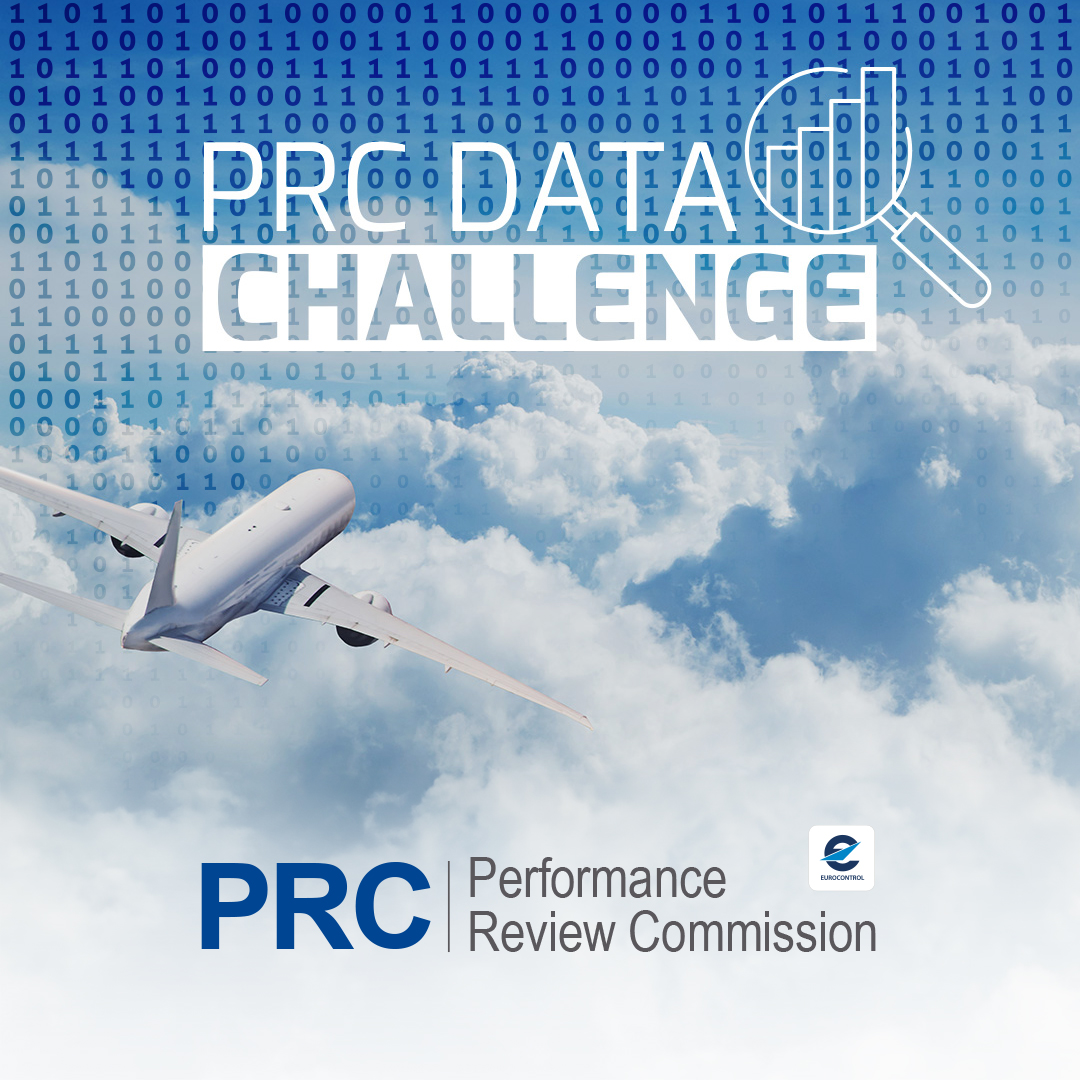
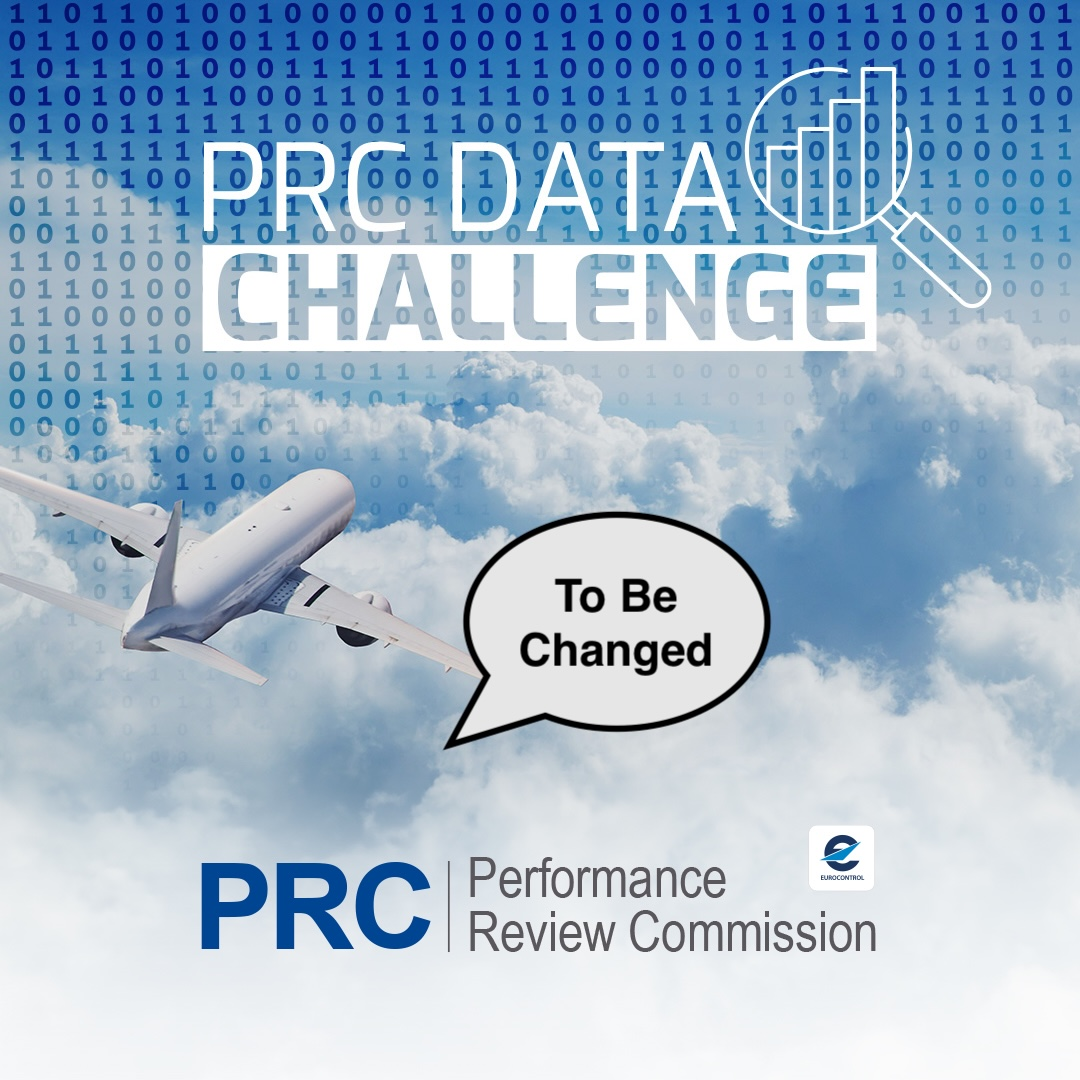
align column list and descriptions

Changed region(s): [[0.3972, 0.4583, 0.7333, 0.7028]]

diff --git a/_site/data.html b/_site/data.html
@@ -462,7 +462,8 @@ ul.task-list li input[type="checkbox"] {
     <h2 id="toc-title">On this page</h2>
    
   <ul class="collapse">
-  <li><a href="#acronyms_HEADER_LOA" id="toc-acronyms_HEADER_LOA" class="nav-link active" data-scroll-target="#acronyms_HEADER_LOA">List of Acronyms</a></li>
+  <li><a href="#column-description" id="toc-column-description" class="nav-link active" data-scroll-target="#column-description">Column description</a></li>
+  <li><a href="#acronyms_HEADER_LOA" id="toc-acronyms_HEADER_LOA" class="nav-link" data-scroll-target="#acronyms_HEADER_LOA">List of Acronyms</a></li>
   </ul>
 </nav>
     </div>
@@ -490,20 +491,110 @@ ul.task-list li input[type="checkbox"] {
 
 <p>We provide the following (logical) data sets:</p>
 <ol type="1">
-<li><strong>flight movements</strong> information at 11 major European airports including
+<li><strong>movements</strong> (arrival and departure) information at 11 major European airports including
 <ol type="a">
 <li><strong>taxi-out time</strong> for each movement in the airport</li>
-<li><strong>scheduled</strong> and <strong>actual</strong> times</li>
+<li><strong>scheduled</strong> and <strong>actual</strong> times This is related to departing (<code>PHASE</code> = <code>DEP</code>) or arriving (<code>PHASE</code> = <code>ARR</code>) airport.</li>
 </ol></li>
-<li><strong>airport coordinates</strong> for all <a href="#acronyms_ADEP">Aerodromes of DEParture (ADEPs)</a> and <a href="#acronyms_ADES">Aerodromes of DEStination (ADESs)</a></li>
+<li><strong>flight</strong> information for each movement.<br>
+This is what is matched in the <a href="#acronyms_NM">Network Manager (NM)</a> records.</li>
 </ol>
+<p>The movement rows have been (left) joined with the flight ones.</p>
+<p><strong>NOTE</strong>: real world data is messy. You will find some inconsistencies between movement and flight information. We haven’t tried to reconcile them because they are probably due to some limitations of the underlying processes trying to match different sources of data.<br>
+As per all out data challenges, we do not <em>play</em> with synthetic/artificial datasets.</p>
+<section id="column-description" class="level2">
+<h2 class="anchored" data-anchor-id="column-description">Column description</h2>
+<p>Columns postfixed with <code>_mvt</code> are associated with the reporting airport.<br>
+Columns postfixed with <code>_flt</code> are associated with information from <a href="#acronyms_NM">NM</a> flight list.</p>
+<section id="movement" class="level3">
+<h3 class="anchored" data-anchor-id="movement">Movement</h3>
+<ul>
+<li><code>MVT_ID_mvt</code>: unique identifier for the movement record</li>
+<li><code>FLIGHT_ID_mvt</code>: unique identifier for the <a href="#acronyms_NM">NM</a> flight (if matched)</li>
+<li><code>FLIGHT_mvt</code>: flight number, i.e.&nbsp;what you see on your boarding pass</li>
+<li><code>FLIGHT_RULE_mvt</code>: which sets of regulations the flight is operated under. Possible values are:
+<ul>
+<li><code>I</code> for <a href="#acronyms_IFR">Instrument Flight Rules (IFR)</a></li>
+<li><code>V</code> for <a href="#acronyms_VFR">Visual Flight Rules (VFR)</a></li>
+<li>NA if unknown</li>
+</ul></li>
+<li><code>ADEP_mvt</code>: the (ICAO code of the) <a href="#acronyms_ADEP">Aerodrome of DEParture (ADEP)</a>.</li>
+<li><code>ADES_mvt</code>: the (ICAO code of the) <a href="#acronyms_ADES">Aerodrome of DEStination (ADES)</a>.</li>
+<li><code>PHASE_mvt</code>: movement phase. <code>DEP</code>=departure, <code>ARR</code>=arrival.</li>
+<li><code>MVT_TIME_UTC_mvt</code>: (best available) movement time (takeoff if <code>PHASE</code> = <code>DEP</code>, landing if <code>PHASE</code> = <code>ARR</code>.)</li>
+<li><code>BLOCK_TIME_UTC_mvt</code>: Block time (off-block if <code>PHASE</code> = <code>DEP</code>, in-block if <code>PHASE</code> = <code>ARR</code>.)</li>
+<li><code>SCHED_TIME_UTC_mvt</code>: scheduled time (of departure if <code>PHASE</code> = <code>DEP</code>, of arrival if <code>PHASE</code> = <code>ARR</code>.)</li>
+<li><code>AIRCRAFT_TYPE_mvt</code>: the ICAO code for the aircraft type, for example <code>A21N</code> for Airbus A321neo.</li>
+<li><code>RUNWAY_mvt</code>: the RWY ID (of departure if <code>PHASE</code> = <code>DEP</code>, of arrival if <code>PHASE</code> = <code>ARR</code>.)</li>
+<li><code>STAND_mvt</code>: the stand ID (of departure if <code>PHASE</code> = <code>DEP</code>, of arrival if <code>PHASE</code> = <code>ARR</code>.)</li>
+<li><code>TAXITIME_SEC_mvt</code>: amount of seconds for taxi time (taxi-out if <code>PHASE</code> = <code>DEP</code>, taxi-in if <code>PHASE</code> = <code>ARR</code>.)</li>
+</ul>
+</section>
+<section id="flight" class="level3">
+<h3 class="anchored" data-anchor-id="flight">Flight</h3>
+<p>The following columns come from data recorded by <a href="#acronyms_NM">NM</a>.</p>
+<ul>
+<li><code>LOBT_flt</code>: last know off-block time</li>
+<li><code>CALLSIGN_flt</code>: the <a href="https://skybrary.aero/articles/aircraft-call-sign">callsign</a> of the relevant flight, e.g.&nbsp;<code>BAW6VB</code>.</li>
+<li><code>ADEP_flt</code>: the ICAO code of the <a href="#acronyms_ADEP">ADEP</a>.</li>
+<li><code>ADES_flt</code>: the ICAO code of the <a href="#acronyms_ADES">ADES</a>.</li>
+<li><code>ADES_FILED_flt</code>: the <a href="#acronyms_ADES">ADES</a> initially filed in the FPL. if different from <code>ADES_flt</code> then the flight has beed diverted.</li>
+<li><code>MARKET_SEGMENT_flt</code>: the market segment type as defined in the <a href="https://www.eurocontrol.int/publication/market-segment-rules">Market Segment Rules</a>, it can be:
+<ul>
+<li>“Mainline”</li>
+<li>“Regional”</li>
+<li>“Low-Cost”</li>
+<li>“Business Aviation”</li>
+<li>“All-Cargo”</li>
+<li>“Charter” (Non-Scheduled)</li>
+<li>“Military”</li>
+<li>“Other”</li>
+<li>“Not classified”</li>
+</ul></li>
+<li><code>IOBT_flt</code>: <a href="#acronyms_IOBT">Initial Off-Block Time (IOBT)</a>.</li>
+<li><code>FLIGHT_RULE_flt</code>: which sets of regulations the flight is operated under (see <a href="https://www.skybrary.aero/articles/flight-plan-completion">FPL Item 8</a>). Possible values are:
+<ul>
+<li><code>I</code> for <a href="#acronyms_IFR">IFR</a></li>
+<li><code>V</code> for <a href="#acronyms_VFR">VFR</a></li>
+<li><code>Y</code> first <a href="#acronyms_IFR">IFR</a> thereafter <a href="#acronyms_VFR">VFR</a></li>
+<li><code>Z</code> first <a href="#acronyms_VFR">VFR</a> thereafter <a href="#acronyms_IFR">IFR</a></li>
+</ul></li>
+<li><code>FLIGHT_TYPE_flt</code>: flight type (see <a href="https://www.skybrary.aero/articles/flight-plan-completion">FPL Item 8</a>). Possible values:
+<ul>
+<li><code>S</code> for scheduled air service</li>
+<li><code>N</code>for non-scheduled air service</li>
+<li><code>G</code> for general aviation</li>
+<li><code>M</code> for military (note: filtered out)</li>
+<li><code>X</code> for other than the preceding categories</li>
+</ul></li>
+<li><code>AIRCRAFT_TYPE_flt</code>: the <a href="https://www.icao.int/publications/doc8643/pages/search.aspx">ICAO code for the aircraft type</a>, for example <code>A30B</code> for an Airbus A-300B2-200.</li>
+<li><code>WK_TBL_CAT_flt</code>: wake turbulence category (see <a href="https://www.skybrary.aero/articles/flight-plan-completion">FPL Item 9</a>), can be
+<ul>
+<li><code>L</code> LIGHT, i.e.&nbsp;maximum certificated takeoff mass of 7000 kg (15_500 lbs) or less.</li>
+<li><code>M</code> MEDIUM, i.e maximum certificated takeoff mass less than 136_000 kg (300_000 lbs), but more than 7_000 kg (15_500 lbs)</li>
+<li><code>H</code> HEAVY, i.e.&nbsp;maximum certificated takeoff mass of 136_000 kg (300_000 lbs) or more (except those specified as J)</li>
+<li><code>J</code> SUPER, presently the only the AIRBUS A-380-800</li>
+</ul></li>
+<li><code>AIRCRAFT_OPERATOR_flt</code>: the (anonymized) <a href="https://en.wikipedia.org/wiki/List_of_airline_codes">ICAO Airline Designator</a></li>
+<li><code>EOBT_1_flt</code>: the EOBT for FPL-based (M1) trajectory.</li>
+<li><code>ARVT_1_flt</code>: the Arrival Time for FPL-based (M1) trajectory.</li>
+<li><code>AOBT_3_flt</code>: the <a href="#acronyms_AOBT">Actual Off-Block Time (AOBT)</a> for flown (M3) trajectory.</li>
+<li><code>ARVT_3_flt</code>: the Arrival Time for flown (M3) trajectory.</li>
+</ul>
 
 
+</section>
+</section>
 <section id="acronyms_HEADER_LOA" class="level2 loa unnumbered">
 <h2 class="loa unnumbered anchored" data-anchor-id="acronyms_HEADER_LOA">List of Acronyms</h2>
 <div>
 <p><strong><span id="acronyms_ADEP">ADEP</span></strong>: Aerodrome of DEParture</p>
 <p><strong><span id="acronyms_ADES">ADES</span></strong>: Aerodrome of DEStination</p>
+<p><strong><span id="acronyms_AOBT">AOBT</span></strong>: Actual Off-Block Time</p>
+<p><strong><span id="acronyms_IFR">IFR</span></strong>: Instrument Flight Rules</p>
+<p><strong><span id="acronyms_IOBT">IOBT</span></strong>: Initial Off-Block Time</p>
+<p><strong><span id="acronyms_NM">NM</span></strong>: Network Manager</p>
+<p><strong><span id="acronyms_VFR">VFR</span></strong>: Visual Flight Rules</p>
 </div>
 </section>
 

diff --git a/_site/ranking.html b/_site/ranking.html
@@ -490,6 +490,7 @@ ul.task-list li input[type="checkbox"] {
 </header>
 
 
+<p>We will monitor submissions to capture attempts to learn from the ranking process. We think this in NOT a fair way to align with the purposes and goals of the data challenge.</p>
 <section id="leaderboard" class="level2">
 <h2 class="anchored" data-anchor-id="leaderboard">Leaderboard</h2>
 <div class="callout callout-style-default callout-warning callout-titled" title="Attention">
